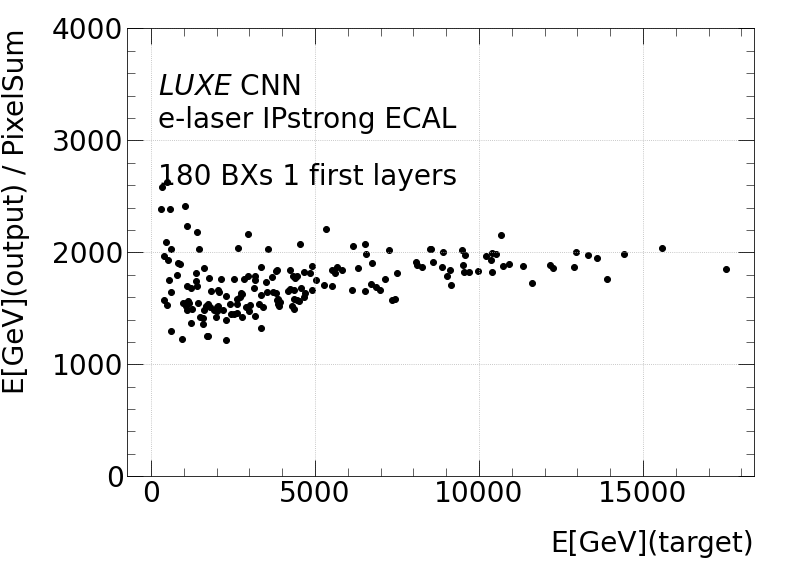
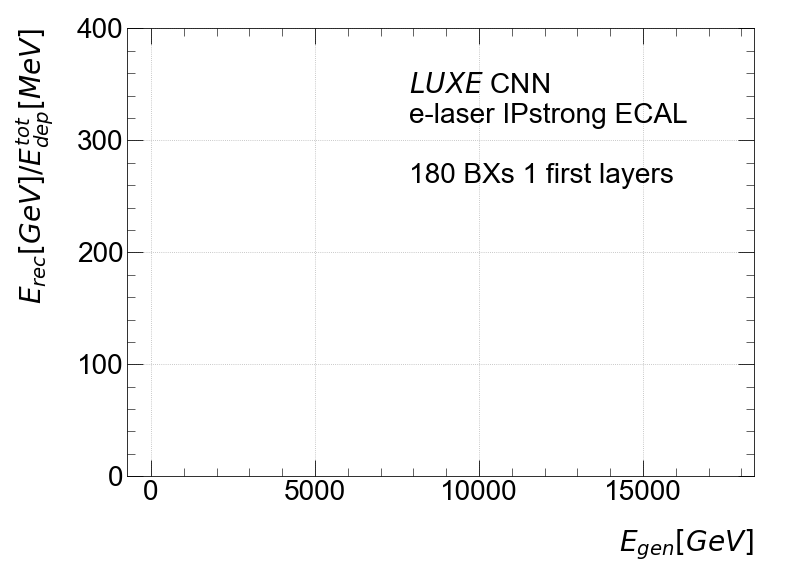
u

diff --git a/shan_scripts/plots.py b/shan_scripts/plots.py
@@ -64,7 +64,7 @@ def hist(xx, yy1, yy2, location, case=None):
     for label in ax.get_xticklabels(): label.set_visible(False)
     ax1.legend(loc=(0.7,0.7))  # defined by left-bottom of legend box; in the ratio of figure size
     ax1.set_ylabel(r'd$N$/d$E_e$ [1/GeV]')
-    ax2.set_ylabel(r'$(N_{generated} - N_{reconstructed})$/$N_\mathregular{true}$', loc="center")
+    ax2.set_ylabel(r'$(N_{gen} - N_{rec})$/$N_\mathregular{true}$', loc="center")
     fig.align_ylabels([ax1,ax2])
     ax2.set_xlabel(r'$E_e$ [GeV]')
     ax2.set_ylim(-.2,.2)
@@ -103,7 +103,7 @@ def projection(xx, yy, fname):
     ax.legend(loc=(0.625,0.8))  # defined by left-bottom of legend box; in the ratio of figure size
     ax.set_xlim(-.5,.5)
     ax.set_ylim(0,45)
-    ax.set_xlabel(r'$(N_{reconstructed} - N_{generated})/N_{generated}$')
+    ax.set_xlabel(r'$(N_{rec} - N_{gen})/N_{gen}$')
     ax.set_ylabel(r'Occurrences')
     ax.text(0.05,0.9,"$LUXE$ CNN\ne-laser IPstrong ECAL", \
         transform=ax.transAxes, verticalalignment='top')
@@ -117,7 +117,7 @@ def rel_error(xx, yy, fname):
     ax.legend(loc=(0.625,0.8))  # defined by left-bottom of legend box; in the ratio of figure size
     # ax.set_xlim(-3,3)
     ax.set_xlabel(r'Epochs')
-    ax.set_ylabel(r'$(N_{reconstructed} - N_{generated})/N_{generated}$')
+    ax.set_ylabel(r'$(N_{rec} - N_{gen})/N_{gen}$')
     ax.set_ylim(-10,10)
     ax.text(0.05,0.9,"$LUXE$ CNN\ne-laser IPstrong ECAL", \
         transform=ax.transAxes, verticalalignment='top')
@@ -132,7 +132,7 @@ def tot(xx, yy, fname):
     ax.set_xlim(0,3500)
     ax.set_ylim(-1,1)
     ax.set_xlabel(r'Multiplicity')
-    ax.set_ylabel(r'$(N_{reconstructed} - N_{generated})/N_{generated}$')
+    ax.set_ylabel(r'$(N_{rec} - N_{gen})/N_{gen}$')
     ax.text(0.45,0.9,"$LUXE$ CNN\ne-laser IPstrong ECAL", \
         transform=ax.transAxes, verticalalignment='top', horizontalalignment='left')
     ax.text(0.45,0.7,f"180 BXs {layers} first layers", \
@@ -145,12 +145,12 @@ def ratio(xx, yy, fname):
     ax.scatter(xx,yy, color='k')
     ax.legend(loc=(0.625,0.8))  # defined by left-bottom of legend box; in the ratio of figure size
     # ax.set_xlim(-3,3)
-    ax.set_ylim(0,4000)
-    ax.set_xlabel(r'$E_{generated}[GeV]$')
-    ax.set_ylabel(r'$E_{reconstructed}[GeV] / PixelSum$')
-    ax.text(0.05,0.9,"$LUXE$ CNN\ne-laser IPstrong ECAL", \
-        transform=ax.transAxes, verticalalignment='top', set_horizontalalignment='right')
-    ax.text(0.05,0.7,f"180 BXs {layers} first layers", \
-        transform=ax.transAxes, verticalalignment='top', set_horizontalalignment='right')
+    ax.set_ylim(0,400)
+    ax.set_xlabel(r'$E_{gen}[GeV]$')
+    ax.set_ylabel(r'$E_{rec}[GeV] / E^{tot}_{dep}[MeV]$')
+    ax.text(0.45,0.9,"$LUXE$ CNN\ne-laser IPstrong ECAL", \
+        transform=ax.transAxes, verticalalignment='top')
+    ax.text(0.45,0.7,f"180 BXs {layers} first layers", \
+        transform=ax.transAxes, verticalalignment='top')
     pyplot.savefig(fname)
 

diff --git a/sandbox/work_with_input.py b/sandbox/work_with_input.py
@@ -31,8 +31,8 @@ def plot_image(ecalimage, name):
 
 if __name__ == '__main__':
 
-    name = 'case_4' # case number
-    layers = 1
+    name = 'case_5' # case number
+    layers = 20
 
     # x = np.random.rand(110,20)
     # x = np.transpose(x)
@@ -44,7 +44,7 @@ if __name__ == '__main__':
     # mat = scipy.io.loadmat(en_dep_file)
     # x = list(mat.keys())[3:]
     en_dep = EcalDataIO.ecalmatio(en_dep_file)  # Dict with 100000 samples {(Z,X,Y):energy_stamp}
-    energies = EcalDataIO.energymatio(en_file)
+    # energies = EcalDataIO.energymatio(en_file)
     
     key = list(en_dep.keys())[0]
 
